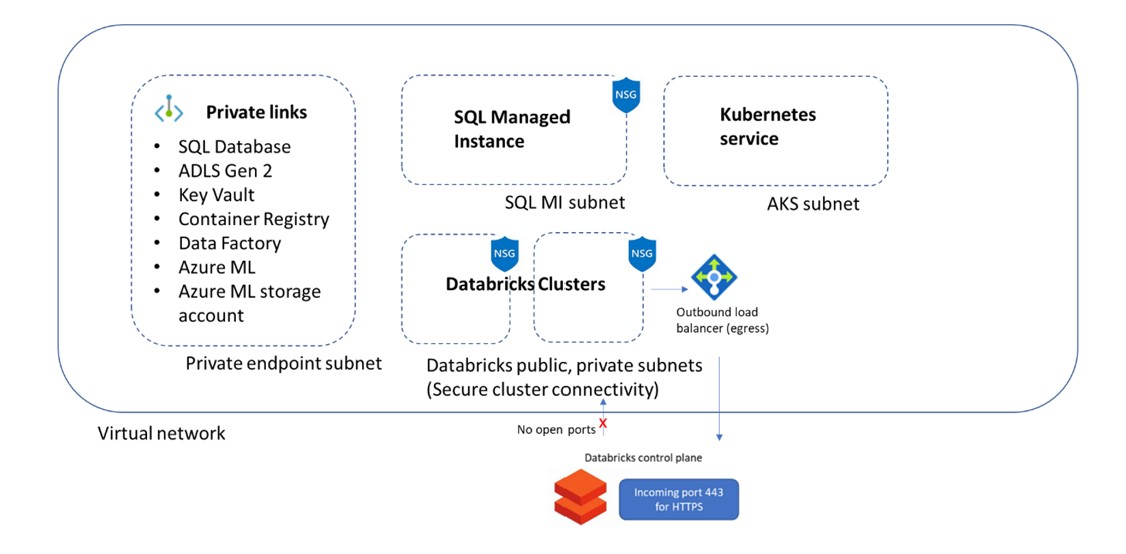
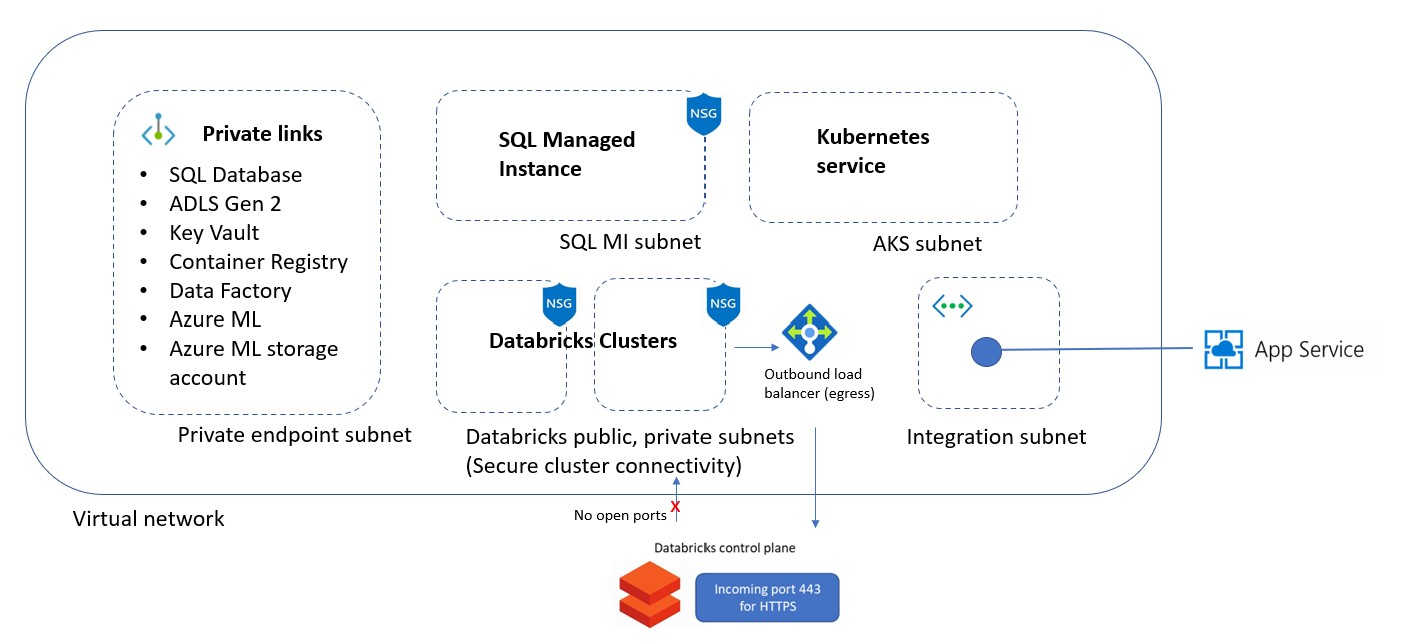
network diagram for ml lz added plus md typo fixed

diff --git a/docs/archetypes/machinelearning.md b/docs/archetypes/machinelearning.md
@@ -128,7 +128,7 @@ Once the machine learning archetype is deployed and available to use, access con
 | Azure Storage Account for Azure ML | Network ACL deny | Private endpoint on `blob`, `file` + DNS registration to either hub or spoke | `privateEndpoints`|
 | Azure Data Factory | Public network access disabled, Azure integration runtime with managed virtual network | Private endpoint on `dataFactory` + DNS registration to either hub or spoke | `privateEndpoints`|
 | Azure Kubernetes Service | Private cluster, network profile set with either kubenet or Azure CNI | N/A | `aks`|
-| Azure App Service | Virtual Network integration, public network access disabled | N/A | 'integration' | 
+| Azure App Service | Virtual Network integration, public network access disabled | N/A | `integration` | 
 | Azure Container Registry | Network ACL deny, public network access disabled | Private endpoint on `registry` + DNS registration to either hub or spoke | `privateEndpoints`|
 | Azure Application Insights | N/A | N/A | N/A |
 
